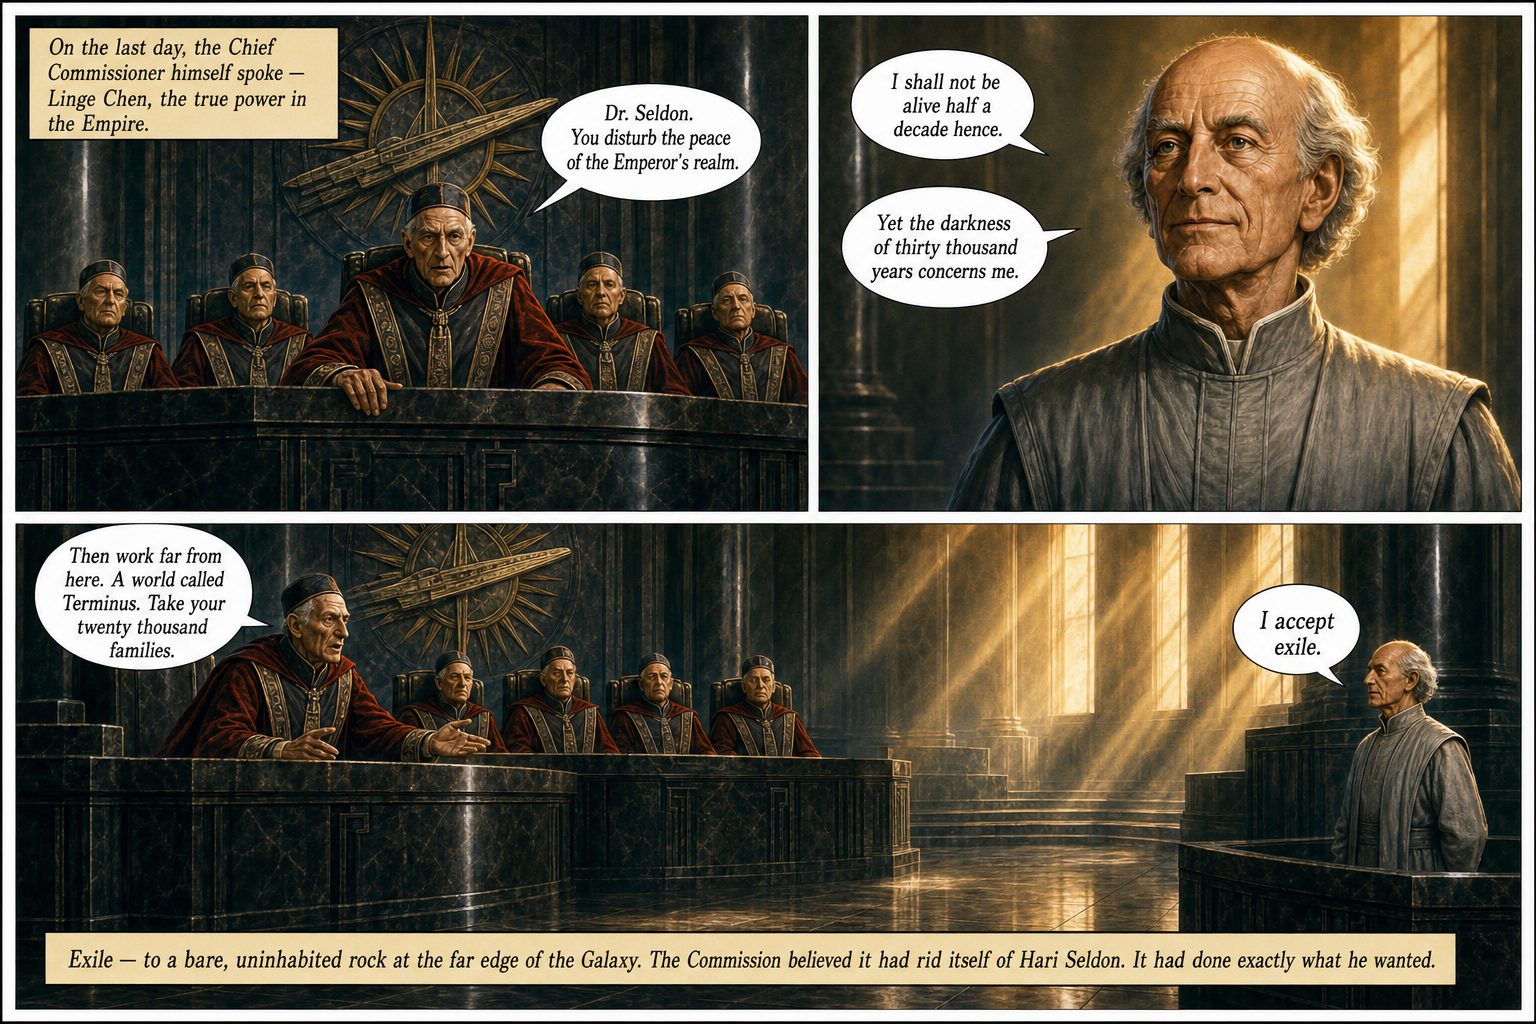
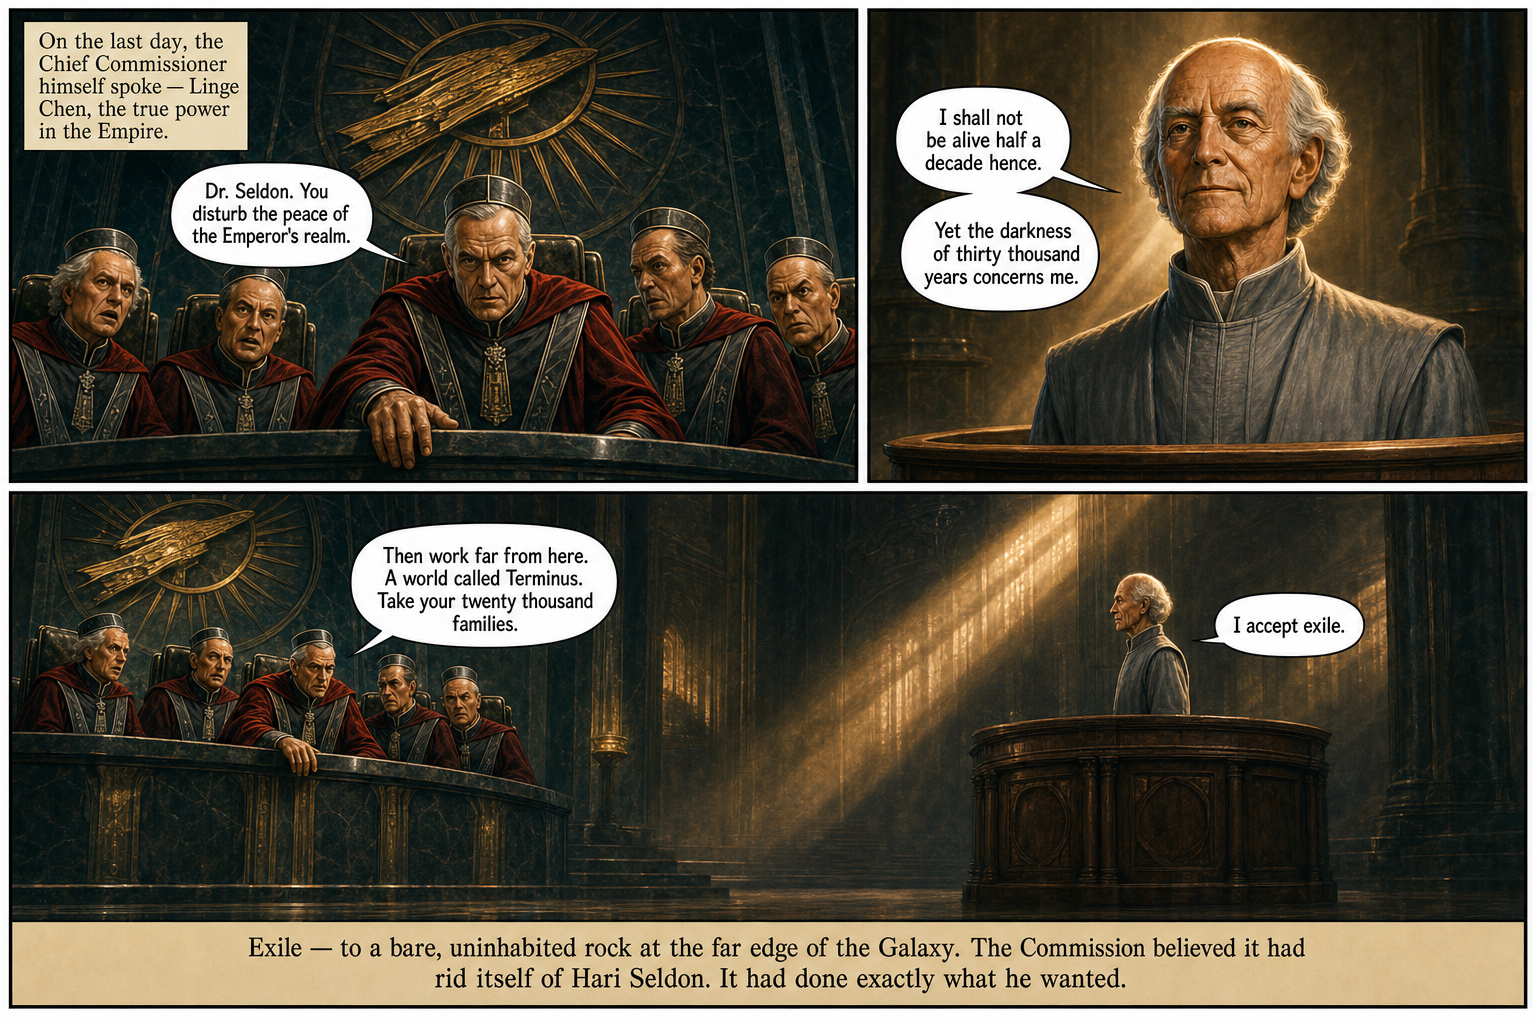
Fix Foundation Vol 1 character continuity (P6 commissioners, P10/P12 trustee)
QA round 2: the bench commissioners on P6 were clones mismatched with P5,
and the prose-locked trustee rendered as two different men on P10/P12.
Repaired with a dedicated ref_fara extracted from P10's own rendering and
a pixel crop of the validated P5 bench as group reference.

diff --git a/foundation/02-CHARACTERS.md b/foundation/02-CHARACTERS.md
@@ -27,12 +27,12 @@ Locks written from the OBSERVED pixels of the two validated style-test pages, no
 
 No ref needed. Observed for the record: middle-aged man, slicked-back black hair with sharp widow's peak, gaunt angular face, hooked nose, heavy dark brows, ornate navy-blue high-collared imperial uniform with gold braid and epaulettes.
 
-## LINGE CHEN, Chief Commissioner (P6 — anchored on finished P5, not a ref)
+## LINGE CHEN, Chief Commissioner (P6)
 
 **Prose lock (P6 only):**
 > The central and eldest of the five commissioners on the high tribunal bench: a lean ancient face, hooded unreadable eyes, thin silver hair beneath a close-fitting dark judicial cap, scarlet-and-gold robe. He speaks with motionless authority; the other commissioners lean back to listen.
 
-P6 is generated by `edit_image` anchored on the finished P5 page so the hall, bench, commissioners and Seldon stay identical.
+**Ref:** `refs/ref_bench_commissioners.png` — a straight PIL crop of the validated P5 page (`p5.crop((0.56w, 0.50h, w, 0.73h))`): the five distinct commissioner faces as actually rendered. QA LESSON (round 2): anchoring P6 on the *whole finished P5 page* preserved the hall but the model reinvented the five faces as clones. Crop the validated group pixels and pass THEM as the ref, with "FIVE CLEARLY DIFFERENT elderly men — reproduce their five distinct faces exactly as shown; do NOT repeat the same face."
 
 ## SALVOR HARDIN (Act 2 lead — P8–P15)
 
@@ -60,10 +60,22 @@ P6 is generated by `edit_image` anchored on the finished P5 page so the hall, be
 
 > Compact hard-faced man in his forties, close-cropped black hair, watchful narrow eyes, plain dark workman's coat; stands slightly behind the Mayor, arms folded.
 
+## JORD FARA, Board trustee (P10 f2, P12 f2)
+
+**Lock (paste verbatim):**
+> Frail trustee around eighty, bald crown with thin white side wisps, clean-shaven deeply wrinkled face, hollow cheeks, prominent ears, anxious watery eyes, slate blue-grey high-collared tunic, stooped posture.
+
+**Ref:** `refs/ref_fara.png` — extracted via `edit_image` from P10's own first rendering (the bald trustee as actually painted = canon; maximally distinct from Pirenne).
+
+QA LESSON (round 2, user-caught): this character was originally an "anonymous elderly trustee" locked in prose only — he rendered as two different old men on P10 and P12 and read as a continuity error. **There is no such thing as "anonymous" in a recurring room. Any character who appears on 2+ pages gets a ref. RELYING ON TEXT PROMPTS FOR CHARACTER LOCK IS NOT ACCEPTABLE** (user directive, 2026-07-05).
+
 ## Composite plates (PIL local stitch — method A)
 
 - `refs/composite_act1_gaal_seldon.png` — [ref_gaal | ref_seldon], thin labels "REFERENCE A" / "REFERENCE B". Anchor for P2, P3, P4, P7.
-- `refs/composite_act2_hardin_pirenne.png` — [ref_hardin | ref_pirenne]. Anchor for P9, P10, P12, P15.
+- `refs/composite_act2_hardin_pirenne.png` — [ref_hardin | ref_pirenne]. Anchor for P9, P15.
+- `refs/composite_p6_bench_seldon.png` — [bench crop | ref_seldon]. Anchor for P6 (repair).
+- `refs/composite_p10_hardin_pirenne_fara.png` — [ref_hardin | ref_pirenne | ref_fara]. Anchor for P10 (repair).
+- `refs/composite_p12_hardin_fara.png` — [ref_hardin | ref_fara]. Anchor for P12 (repair).
 - Vault pages (P13, P14) anchor on `ref_seldon_hologram`; the Board is background prose (Pirenne named but small — glasses + white pointed beard carry him).
 
 Every plate prompt must include: "This input is a REFERENCE SHEET, not a layout to keep — paint ONE NEW unified single-scene image using the references; do not reproduce the sheet's split layout; ignore any printed labels."
